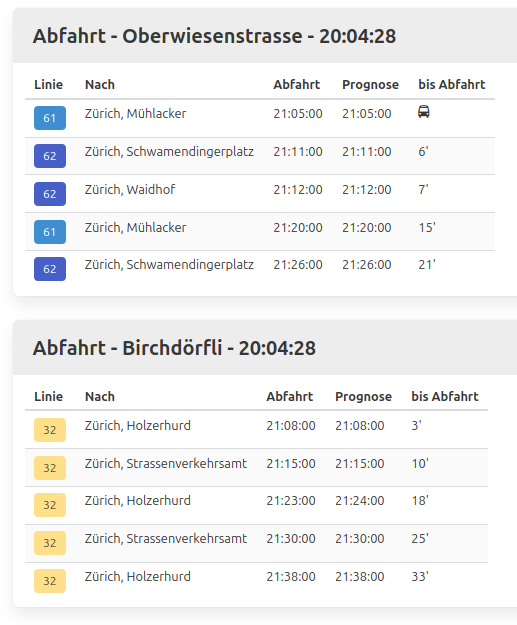
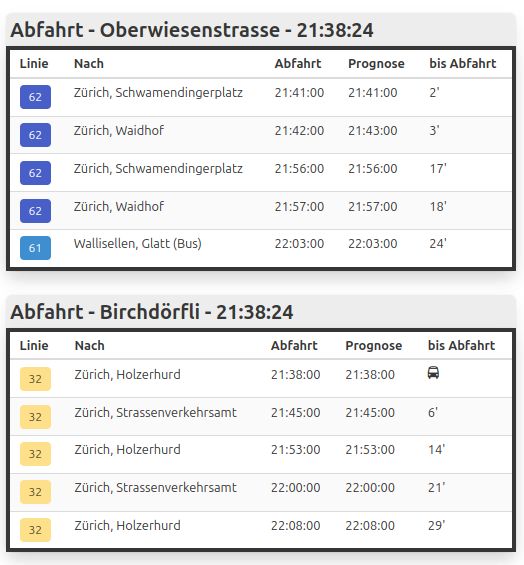
add deployment unicorn

diff --git a/meinbus.py b/meinbus.py
@@ -1,16 +1,19 @@
 from flask import Flask, render_template_string
 from datetime import datetime, timezone
 import requests
+import os
 
 app = Flask(__name__)
 
-BASE_URL = 'https://transport.opendata.ch/v1/'
+BASE_URL = "https://transport.opendata.ch/v1/"
+
 
 # Custom filter to format datetime string to hh:mm:ss
 @app.template_filter("format_time")
 def format_time(value):
     dt = datetime.strptime(value, "%Y-%m-%dT%H:%M:%S%z")
     return dt.strftime("%H:%M:%S")
+
 
 # Custom filter to calculate minutes until departure
 @app.template_filter("minutes_until")
@@ -21,29 +24,30 @@ def minutes_until(value):
     total_seconds = int(delta.total_seconds() // 60)
     return total_seconds
 
+
 @app.route("/")
 def index():
-    #stop_names = ["Oberwiesenstrasse", "Birchdörfli", "Brunnenhof", "Bad Allenmoos"]
-    #stop_names = ["Birchdörfli", "Oberwiesenstrasse", "", "Brunnenhof", "Bad Allenmoos"]
+    # stop_names = os.getenv("STOP_NAMES") or "Birchdörfli"
     stop_names = ["Oberwiesenstrasse", "Birchdörfli"]
+
     station_coordinates = {
         "Oberwiesenstrasse": {"lat": 47.410473, "lon": 8.532815},
         "Birchdörfli": {"lat": 47.3780, "lon": 8.5400},
         "Brunnenhof": {"lat": 47.4000, "lon": 8.5500},
-        "Bad Allenmoos": {"lat": 47.4100, "lon": 8.5600}
+        "Bad Allenmoos": {"lat": 47.4100, "lon": 8.5600},
     }
     departures = {}
     for stop_name in stop_names:
         data = get_real_time_data(stop_name)
         if data:
             departures[stop_name] = data["stationboard"]
-    disruptions = [] #get_disruptions()
+    disruptions = []  # get_disruptions()
     current_time = datetime.now().strftime("%H:%M:%S")
-    
+
     html = """
     <html>
     <head>
-        <title>Bus Station Departures</title>
+        <title>Bus Station Abfahrten</title>
         <link rel="stylesheet" href="https://cdn.jsdelivr.net/npm/bulma@0.9.3/css/bulma.min.css">
         <link rel="stylesheet" href="https://unpkg.com/leaflet@1.7.1/dist/leaflet.css" />
         <link rel="stylesheet" href="https://cdnjs.cloudflare.com/ajax/libs/font-awesome/4.7.0/css/font-awesome.min.css">
@@ -78,11 +82,11 @@ def index():
             <div class="container">
                  {% for stop_name, stop_departures in departures.items() %}
                 <div class="panel">
-                    <p class="panel-heading">
+                    <p class="panel-heading p-1">
                         Abfahrt - {{ stop_name }} - {{ current_time }}
                     </p>
-                    <div class="panel-block">
-                        <div class="table-container">
+                    <div class="panel">
+                        <div class="table-container is-fullwidth has-background-dark has-text-light p-1">
                             <table class="table is-fullwidth is-striped is-hoverable small-text">
                                 <thead>
                                     <tr>
@@ -170,48 +174,52 @@ def index():
     </body>
     </html>
     """
-    return render_template_string(html, departures=departures, disruptions=disruptions, station_coordinates=station_coordinates, current_time=current_time)
+    return render_template_string(
+        html,
+        departures=departures,
+        disruptions=disruptions,
+        station_coordinates=station_coordinates,
+        current_time=current_time,
+    )
+
 
 def get_real_time_data(stop_name):
-    endpoint = f'{BASE_URL}locations'
-    params = {
-        'query': stop_name,
-        'type': 'station'
-    }
+    endpoint = f"{BASE_URL}locations"
+    params = {"query": stop_name, "type": "station"}
     response = requests.get(endpoint, params=params)
     if response.status_code == 200:
         data = response.json()
-        if data['stations']:
-            station_id = data['stations'][0]['id']
+        if data["stations"]:
+            station_id = data["stations"][0]["id"]
             return get_departures(station_id)
         else:
-            print('No station found')
+            print("No station found")
             return None
     else:
-        print(f'Error: {response.status_code}')
+        print(f"Error: {response.status_code}")
         return None
 
+
 def get_departures(station_id):
-    endpoint = f'{BASE_URL}stationboard'
-    params = {
-        'id': station_id,
-        'limit': 5
-    }
+    endpoint = f"{BASE_URL}stationboard"
+    params = {"id": station_id, "limit": 5}
     response = requests.get(endpoint, params=params)
     if response.status_code == 200:
         return response.json()
     else:
-        print(f'Error: {response.status_code}')
+        print(f"Error: {response.status_code}")
         return None
 
+
 def get_disruptions():
-    endpoint = f'{BASE_URL}disruptions'
+    endpoint = f"{BASE_URL}disruptions"
     response = requests.get(endpoint)
     if response.status_code == 200:
-        return response.json()['disruptions']
+        return response.json()["disruptions"]
     else:
-        print(f'Error: {response.status_code}')
+        print(f"Error: {response.status_code}")
         return []
 
-if __name__ == '__main__':
-    app.run(debug=True, host='0.0.0.0', port=5000)
+
+if __name__ == "__main__":
+    app.run(debug=True, host="0.0.0.0", port=5000)

diff --git a/README.md b/README.md
@@ -5,3 +5,26 @@ Stationsfahrplan für unsere Famillie :oncoming_bus: :tram:
 # screeenshot
 
 ![example](images/example1.png))
+
+
+# build
+
+make docker-build
+```bash
+cd deployment
+kubectl create  -f .
+
+kubectl get all
+NAME                                      READY   STATUS    RESTARTS   AGE
+pod/meinbus-deployment-5d4ccbfb67-l5c8d   1/1     Running   0          14m
+pod/meinbus-deployment-5d4ccbfb67-qx2rx   1/1     Running   0          14m
+
+NAME              TYPE        CLUSTER-IP      EXTERNAL-IP   PORT(S)    AGE
+service/meinbus   ClusterIP   10.43.181.230   <none>        5000/TCP   14m
+
+NAME                                 READY   UP-TO-DATE   AVAILABLE   AGE
+deployment.apps/meinbus-deployment   2/2     2            2           14m
+
+NAME                                            DESIRED   CURRENT   READY   AGE
+replicaset.apps/meinbus-deployment-5d4ccbfb67   2         2         2       14m
+```
